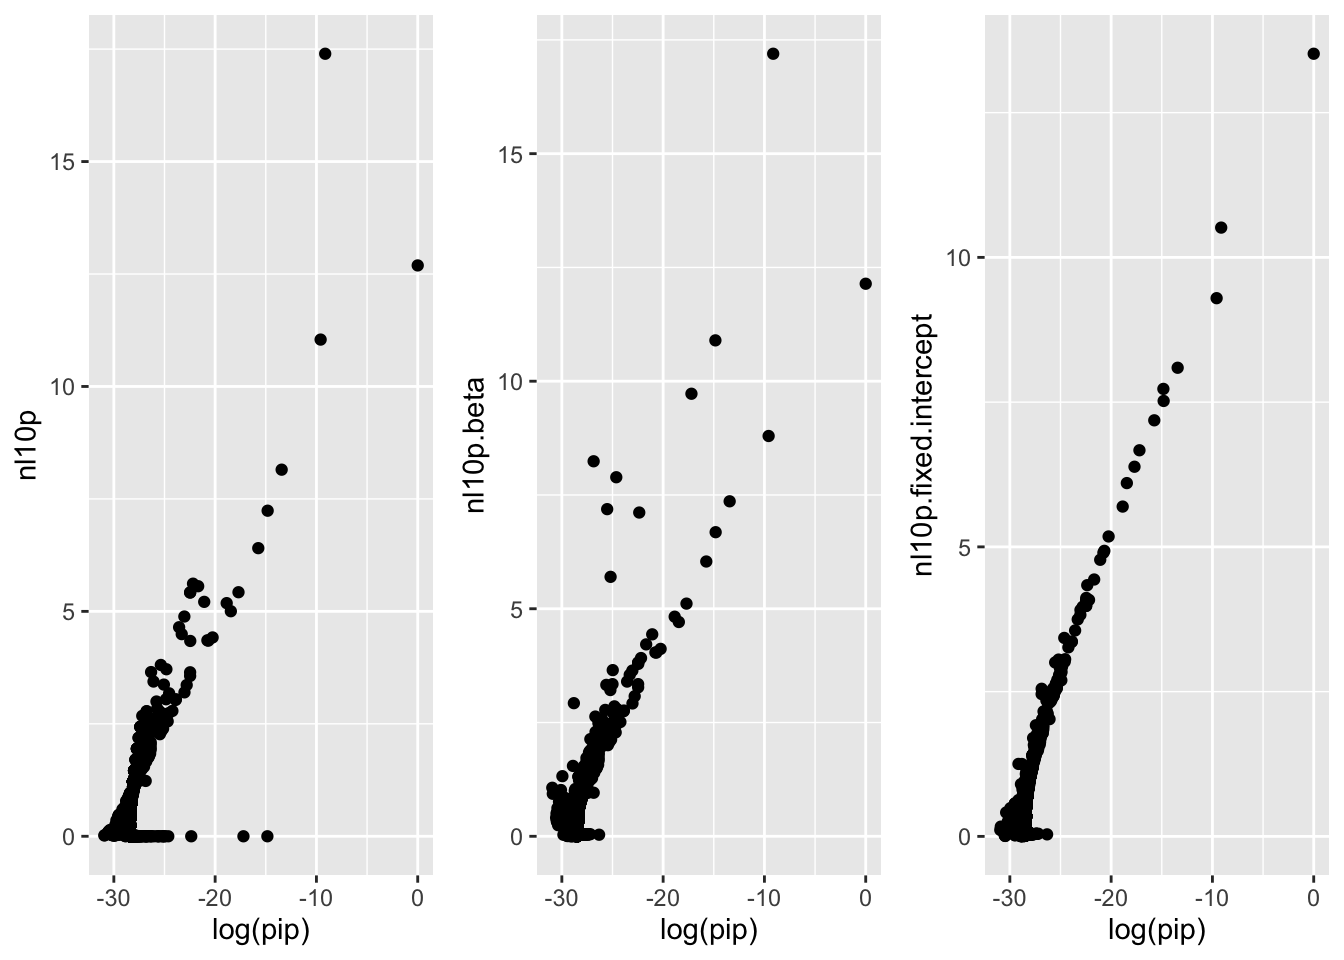
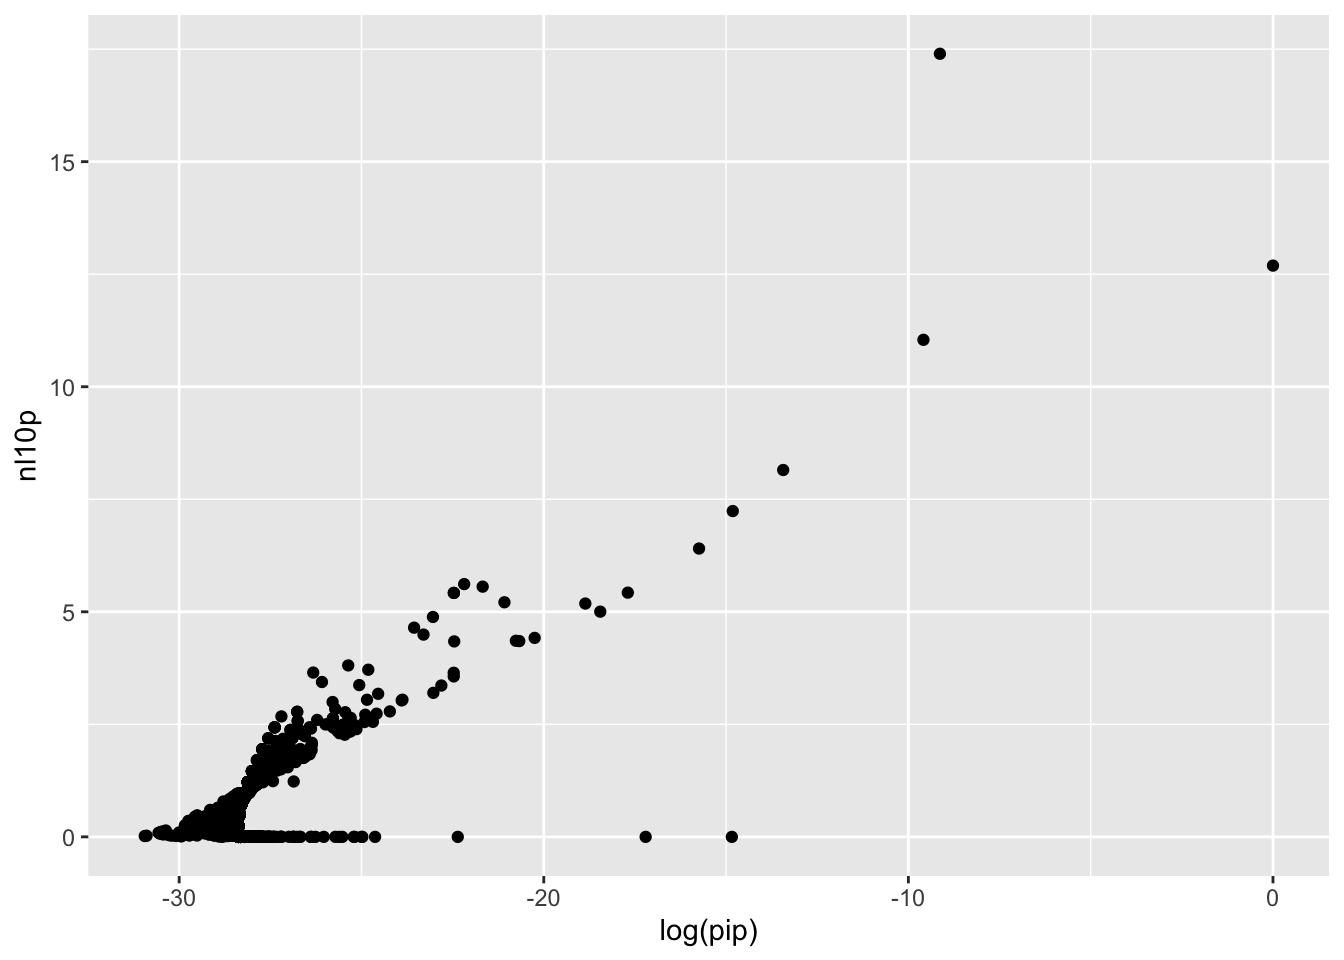
Build site.

diff --git a/docs/single_cell_pbmc_l1.html b/docs/single_cell_pbmc_l1.html
@@ -492,16 +492,16 @@ This reproducible <a href="https://rmarkdown.rstudio.com">R Markdown</a> analysi
 <div class="panel panel-default">
 <div class="panel-heading">
 <p class="panel-title">
-<a data-toggle="collapse" data-parent="#workflowr-checks" href="#strongRepositoryversionstrongahrefhttpsgithubcomkarltayeblogisticsusiegseatreeb7dbf115a0e25f5001c75285ee6765b8abb934edtargetblankb7dbf11a"> <span class="glyphicon glyphicon-ok text-success" aria-hidden="true"></span> <strong>Repository version:</strong> <a href="https://github.com/karltayeb/logistic-susie-gsea/tree/b7dbf115a0e25f5001c75285ee6765b8abb934ed" target="_blank">b7dbf11</a> </a>
+<a data-toggle="collapse" data-parent="#workflowr-checks" href="#strongRepositoryversionstrongahrefhttpsgithubcomkarltayeblogisticsusiegseatree278df3441d2b641aa82e06e47ffe8621ba236b17targetblank278df34a"> <span class="glyphicon glyphicon-ok text-success" aria-hidden="true"></span> <strong>Repository version:</strong> <a href="https://github.com/karltayeb/logistic-susie-gsea/tree/278df3441d2b641aa82e06e47ffe8621ba236b17" target="_blank">278df34</a> </a>
 </p>
 </div>
[2 lines of base64/hex data omitted]
 <div class="panel-body">
 <p>
 Great! You are using Git for version control. Tracking code development and connecting the code version to the results is critical for reproducibility.
 </p>
 <p>
-The results in this page were generated with repository version <a href="https://github.com/karltayeb/logistic-susie-gsea/tree/b7dbf115a0e25f5001c75285ee6765b8abb934ed" target="_blank">b7dbf11</a>. See the <em>Past versions</em> tab to see a history of the changes made to the R Markdown and HTML files.
+The results in this page were generated with repository version <a href="https://github.com/karltayeb/logistic-susie-gsea/tree/278df3441d2b641aa82e06e47ffe8621ba236b17" target="_blank">278df34</a>. See the <em>Past versions</em> tab to see a history of the changes made to the R Markdown and HTML files.
 </p>
 <p>
 Note that you need to be careful to ensure that all relevant files for the analysis have been committed to Git prior to generating the results (you can use <code>wflow_publish</code> or <code>wflow_git_commit</code>). workflowr only checks the R Markdown file, but you know if there are other scripts or data files that it depends on. Below is the status of the Git repository when the results were generated:
@@ -616,6 +616,40 @@ Message
 </tr>
 </thead>
 <tbody>
+<tr>
+<td>
+Rmd
+</td>
+<td>
+<a href="https://github.com/karltayeb/logistic-susie-gsea/blob/278df3441d2b641aa82e06e47ffe8621ba236b17/analysis/single_cell_pbmc_l1.Rmd" target="_blank">278df34</a>
+</td>
+<td>
+karltayeb
+</td>
+<td>
+2022-04-08
+</td>
+<td>
+wflow_publish(“analysis/single_cell_pbmc_l1.Rmd”)
+</td>
+</tr>
+<tr>
+<td>
+html
+</td>
+<td>
+<a href="https://rawcdn.githack.com/karltayeb/logistic-susie-gsea/e2e72a8ddd694a2612c87b6e022d885824daecf6/docs/single_cell_pbmc_l1.html" target="_blank">e2e72a8</a>
+</td>
+<td>
+karltayeb
+</td>
+<td>
+2022-04-08
+</td>
+<td>
+Build site.
+</td>
+</tr>
 <tr>
 <td>
 Rmd
@@ -1570,6 +1604,17 @@ Date
 <tbody>
 <tr>
 <td>
+<a href="https://github.com/karltayeb/logistic-susie-gsea/blob/e2e72a8ddd694a2612c87b6e022d885824daecf6/docs/figure/single_cell_pbmc_l1.Rmd/ser.plots-1.png" target="_blank">e2e72a8</a>
+</td>
+<td>
+karltayeb
+</td>
+<td>
+2022-04-08
+</td>
+</tr>
+<tr>
+<td>
 <a href="https://github.com/karltayeb/logistic-susie-gsea/blob/7c1b832b9be754de7e31fb79e4595051872473fc/docs/figure/single_cell_pbmc_l1.Rmd/ser.plots-1.png" target="_blank">7c1b832</a>
 </td>
 <td>
@@ -1637,6 +1682,17 @@ Date
 </tr>
 </thead>
 <tbody>
+<tr>
+<td>
+<a href="https://github.com/karltayeb/logistic-susie-gsea/blob/e2e72a8ddd694a2612c87b6e022d885824daecf6/docs/figure/single_cell_pbmc_l1.Rmd/ser.flat.plots-1.png" target="_blank">e2e72a8</a>
+</td>
+<td>
+karltayeb
+</td>
+<td>
+2022-04-08
+</td>
+</tr>
 <tr>
 <td>
 <a href="https://github.com/karltayeb/logistic-susie-gsea/blob/63c1e2aec8aa7433321a7114860b701dd7b3694c/docs/figure/single_cell_pbmc_l1.Rmd/ser.flat.plots-1.png" target="_blank">63c1e2a</a>
@@ -1743,6 +1799,17 @@ Date
 <tbody>
 <tr>
 <td>
+<a href="https://github.com/karltayeb/logistic-susie-gsea/blob/e2e72a8ddd694a2612c87b6e022d885824daecf6/docs/figure/single_cell_pbmc_l1.Rmd/veb.1.plots-1.png" target="_blank">e2e72a8</a>
+</td>
+<td>
+karltayeb
+</td>
+<td>
+2022-04-08
+</td>
+</tr>
+<tr>
+<td>
 <a href="https://github.com/karltayeb/logistic-susie-gsea/blob/63c1e2aec8aa7433321a7114860b701dd7b3694c/docs/figure/single_cell_pbmc_l1.Rmd/veb.1.plots-1.png" target="_blank">63c1e2a</a>
 </td>
 <td>
@@ -1809,7 +1876,7 @@ karltayeb
 <pre class="r"><code>p1 &lt;- res.l1$geneset.summary %&gt;% ggplot(aes(x=log(pip), y=nl10p)) + geom_point()
 p2 &lt;- res.l1$geneset.summary %&gt;% ggplot(aes(x=log(pip), y=nl10p.beta)) + geom_point()
 p3 &lt;- res.l1$geneset.summary %&gt;% ggplot(aes(x=log(pip), y=nl10p.fixed.intercept)) + geom_point()
-cowplot::plot_grid(p1, p2, p3, nrow = 1)</code></pre>
+p1</code></pre>
 <p><img src="figure/single_cell_pbmc_l1.Rmd/pip.v.nl10p-1.png" width="672" style="display: block; margin: auto;" /></p>
 <p>
 <button type="button" class="btn btn-default btn-xs btn-workflowr btn-workflowr-fig" data-toggle="collapse" data-target="#fig-pip.v.nl10p-1">
@@ -1848,6 +1915,10 @@ karltayeb
 </table>
 </div>
 </div>
+<pre class="r"><code>p2</code></pre>
+<p><img src="figure/single_cell_pbmc_l1.Rmd/pip.v.nl10p-2.png" width="672" style="display: block; margin: auto;" /></p>
+<pre class="r"><code>p3</code></pre>
+<p><img src="figure/single_cell_pbmc_l1.Rmd/pip.v.nl10p-3.png" width="672" style="display: block; margin: auto;" /></p>
 <p>There are some discrepancies between the pvalues from different methods. One class of differences are where SuSiE estimates a negative effect. This depletion is not detected by the one-sided hypergeometric test. For some small, highly observed, gene sets, the hypergeometric test is giving a much stronger pvalue than the logistic regression.</p>
 <pre class="r"><code>p1 &lt;- res.l1$geneset.summary %&gt;% ggplot(aes(x=nl10p.beta, y=nl10p, color=(beta &gt; 0))) + geom_point()
 p2 &lt;- res.l1$geneset.summary %&gt;%
